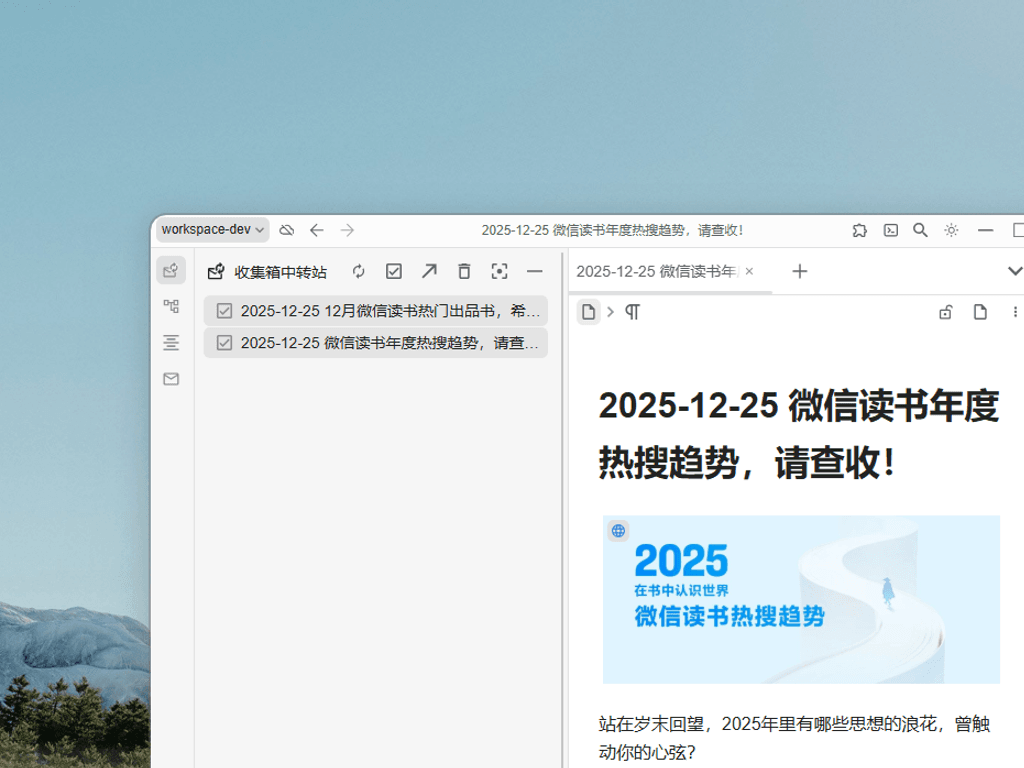
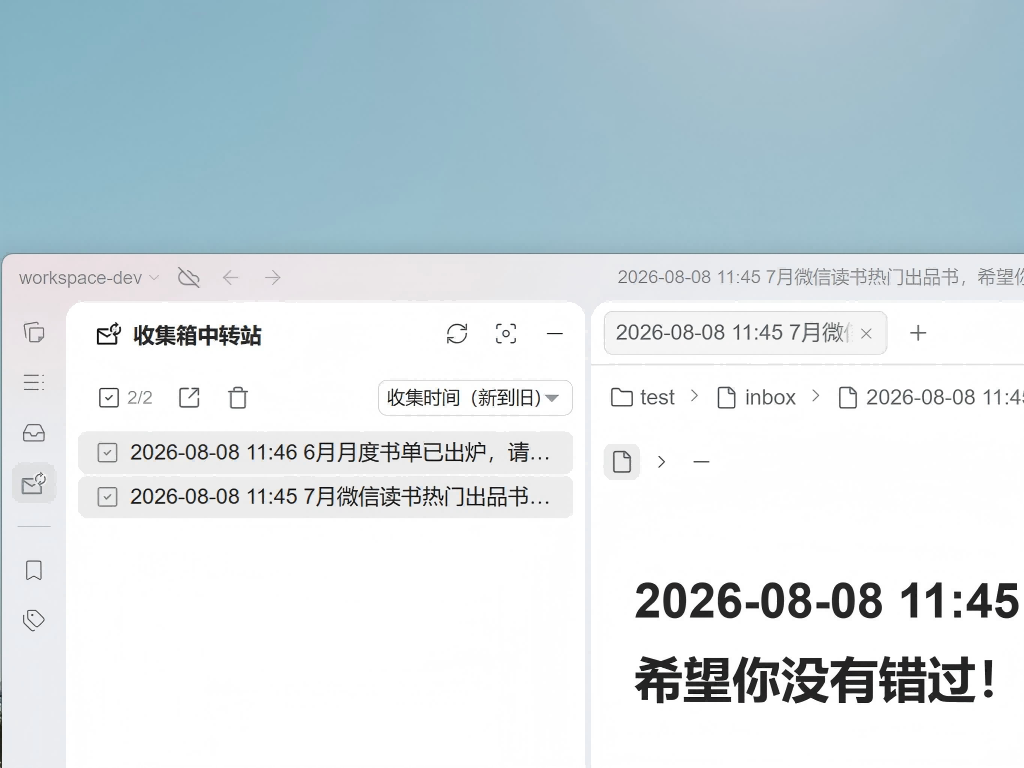
chore: bump version to 0.6.0
更新 CHANGELOG、README（排序功能说明）与预览图

diff --git a/README.md b/README.md
@@ -13,36 +13,44 @@ The intended workflow is that the transfer documents mainly serve as temporary s
 ## How to Use
 
 Setup before workflow:
+
 1. Create or select a document path as the transfer station
 2. Fill in the transfer station ID in the settings (click the document header menu or right-click the document in the document tree -> Copy -> Copy ID)
 
 Daily workflow:
+
 1. Refresh: Will complete the following operations in the background: get all inbox items, convert to documents and move to the transfer station, delete moved items from the inbox (optional)
 2. Transfer files: All files in the transfer station will be displayed in the dock panel for centralized operation. Note that inbox items are not displayed because they have been transferred
 3. File single selection/multiple selection/select all: Batch open files, organize content, and then batch delete files
 4. Locate the transfer station in the document tree (optional): Use the document tree's richer features to operate files
 
 Other settings:
+
 - Whether to use collection time as prefix when converting to document: You can use prefix to mark collection time
 - Whether to delete all inbox items after they are moved: You can choose not to delete when testing the plugin, so you need to delete them in the built-in inbox. It is recommended to choose to delete after the plugin is used stably
 - Replace built-in inbox: You can choose to replace the built-in inbox's dock and shortcut key (default Alt+6), which takes effect after restart
 
 Other function descriptions:
+
 - Dock shortcut key: Default is Shift+Alt+6, after replacing the built-in inbox, it is Alt+6, which can be modified in settings
 - Open document: Alt+click to open in a new tab on the right, Ctrl+click to open in the background, both can be used at the same time
+- Sort: The panel supports sorting by inbox collection time (newest/oldest first) or by name; documents without a recorded collection time are sorted by their creation time. The sort mode persists and stays in sync between the settings panel and the panel dropdown
 
 ## Version Updates
 
 For the complete update history, see: [CHANGELOG](https://github.com/liao-zh/siyuan-inbox-transfer/blob/master/CHANGELOG.md) (requires network access to GitHub).
 
 Main and recent update history:
+
 - 0.3.0: Improved basic functions, including inbox transfer and transfer file operations.
 - 0.4.0: Uploaded to the bazaar.
 - 0.4.2: Fixed the issue of invalid titles.
 - 0.5.0: Adapted to SiYuan v3.7.0.
 - 0.5.1: Migrated from Gitee to GitCode.
+- 0.6.0: Split the panel toolbar into two rows, added select-all count, and support sorting.
 
 Existing issues:
+
 - Mobile frontend is not supported.
 
 ## Acknowledgments
@@ -58,6 +66,7 @@ SiYuan Note source code's inbox module (`siyuan/app/src/layout/dock/Inbox.ts`): 
 ## Code Description
 
 Code structure: (Unlisted parts are the same as the plugin template)
+
 ```txt
 src/
 ├── index.ts：Plugin entry
@@ -73,5 +82,6 @@ src/
 ```
 
 Manual installation of the plugin:
+
 - Download and unzip package.zip, rename it to `siyuan-inbox-transfer`, and move it to `<SiYuan workspace>/data/plugins/` directory.
 - In SiYuan Note, click `Settings->Marketplace->Downloaded->Plugins`, find `Inbox Transfer (siyuan-inbox-transfer)`, and click `Enable`.

diff --git a/README.zh-CN.md b/README.zh-CN.md
@@ -1,4 +1,3 @@
-
 # 思源笔记-收集箱中转站插件
 
 作者：liao-zh
@@ -11,40 +10,47 @@
 
 所设想的工作流是，中转文档主要作为暂存，将其中内容进行筛选并整理到日记等其它文档之后，该文档一般会被删除。本插件主要为简化这一工作流程而设计。如果采用其他工作流，至少也可以在文档树中操作这些中转文档。
 
-
 ## 如何使用
 
 工作流前的设置：
+
 1. 新建或选择一个文档路径作为中转站
 2. 在本插件设置中填入中转站ID（点击文档头菜单或在文档树中右击该文档->复制->复制ID）
 
 日常的工作流：
+
 1. 刷新：会在后台完成如下操作，获取收集箱所有条目，转成文档移动到中转站中，从收集箱删除已移动的条目（可选）
 2. 中转文件：所有中转站中的文件会显示在停靠栏面板中，便于集中操作，注意收集箱的条目是不显示的，因为已经被中转
 3. 文件单选/多选/全选：批量打开文件，整理内容后，批量删除文件
 4. 在文档树中定位中转站（可选）：利用文档树更丰富的功能对文件进行操作
 
 其它设置：
+
 - 转换成文档时是否将收集时间作为前缀：可用前缀标记收集时间
 - 收集箱条目被移动后是否全部删除：在测试插件时可选不删除，这样需要在内置收集箱中删除，插件使用稳定后建议选择删除
 - 替换内置收集箱：可选择替换内置收集箱的停靠栏和快捷键（默认Alt+6），重启后生效
 
 其它功能说明：
+
 - 停靠栏快捷键：默认Shift+Alt+6，替换内置收集箱后为Alt+6，可在设置中修改
 - 打开文档：Alt+单击时在右侧新页签打开，Ctrl+单击时在后台打开，二者可同时使用
+- 排序：面板支持按收集箱收集时间排序（新到旧/旧到新）或按名称排序，未记录到收集时间的文档按创建时间参与排序；排序方式会持久化，并在设置面板与面板下拉间双向同步
 
 ## 版本更新
 
 完整更新历史参见：[CHANGELOG](https://github.com/liao-zh/siyuan-inbox-transfer/blob/master/CHANGELOG.md)（需要网络能访问github）。
 
 主要和近期更新历史：
+
 - 0.3.0：完善了基本功能，包括收集箱中转和中转文件的操作
 - 0.4.0：上架集市
 - 0.4.2：修复了无效标题的问题
 - 0.5.0：适配思源v3.7.0
 - 0.5.1：gitee迁移到gitcode
+- 0.6.0：面板工具栏拆为两行、全选显示选中计数、支持排序
 
 存在的问题：
+
 - 不支持移动端
 
 ## 致谢
@@ -60,6 +66,7 @@
 ## 代码说明
 
 代码结构：（未列出的部分与插件模板相同）
+
 ```txt
 src/
 ├── index.ts：插件入口
@@ -75,6 +82,6 @@ src/
 ```
 
 手动安装插件：
+
 - 下载并解压package.zip，重命名为`siyuan-inbox-transfer`，移动到`<思源工作空间>/data/plugins/`目录下。
 - 在思源笔记中，点击`设置->集市->已下载->插件`，找到`收集箱中转站（siyuan-inbox-transfer）`，点击`启用`。
-

diff --git a/CHANGELOG.md b/CHANGELOG.md
@@ -110,3 +110,18 @@ chore：适配思源v3.7.0
 ### 0.5.1 (2026-07-16)
 
 chore：gitee迁移到gitcode
+
+## 0.6.x：面板工具区重排与排序
+
+### 0.6.0 (2026-08-08)
+
+feat：
+- 面板顶栏按钮拆为两行：顶栏只留刷新/定位/最小化，全选/打开/删除移至正文区顶部，消除横向滚动条
+- 全选按钮显示选中计数（当前选中数/总数）
+- 面板支持按收集箱收集时间排序，未记录到收集时间的文档按创建时间参与排序；支持名称排序
+- 排序方式持久化，在设置面板与面板下拉间双向同步
+
+fix：
+- 修复排序下拉 tooltip 不显示（select 不支持 ::after，改外包 span）
+- 收集时间映射值类型清洗、移动文档时序、卸载时清理映射数据
+- GitHub Actions 工作流适配 pnpm 11（allowBuilds 配置）
